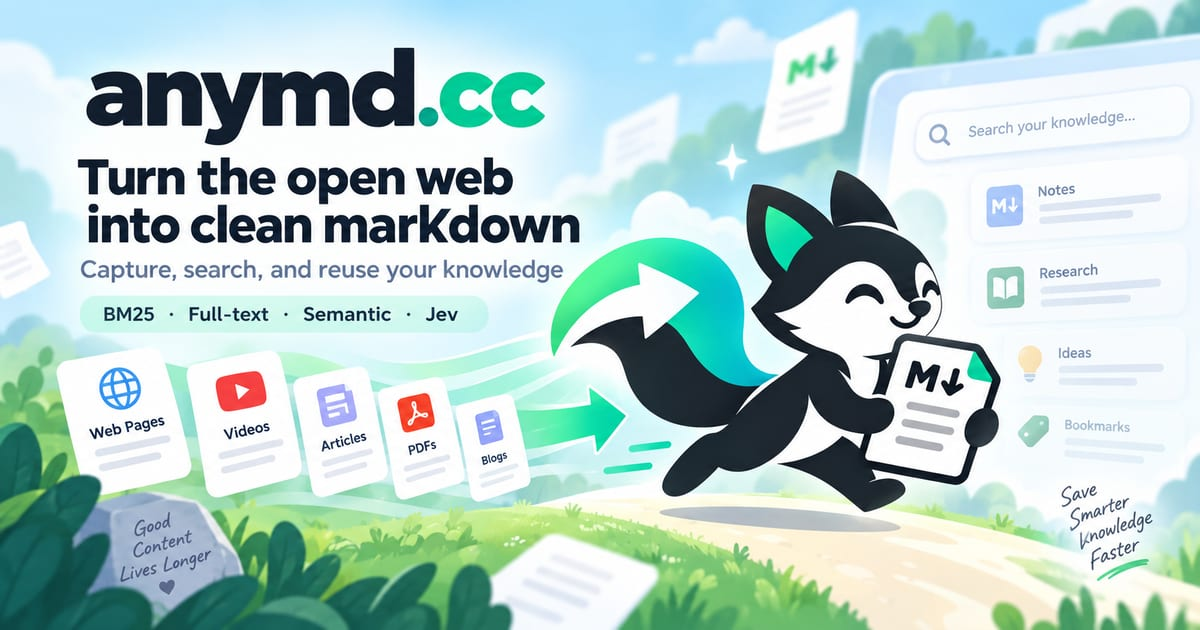
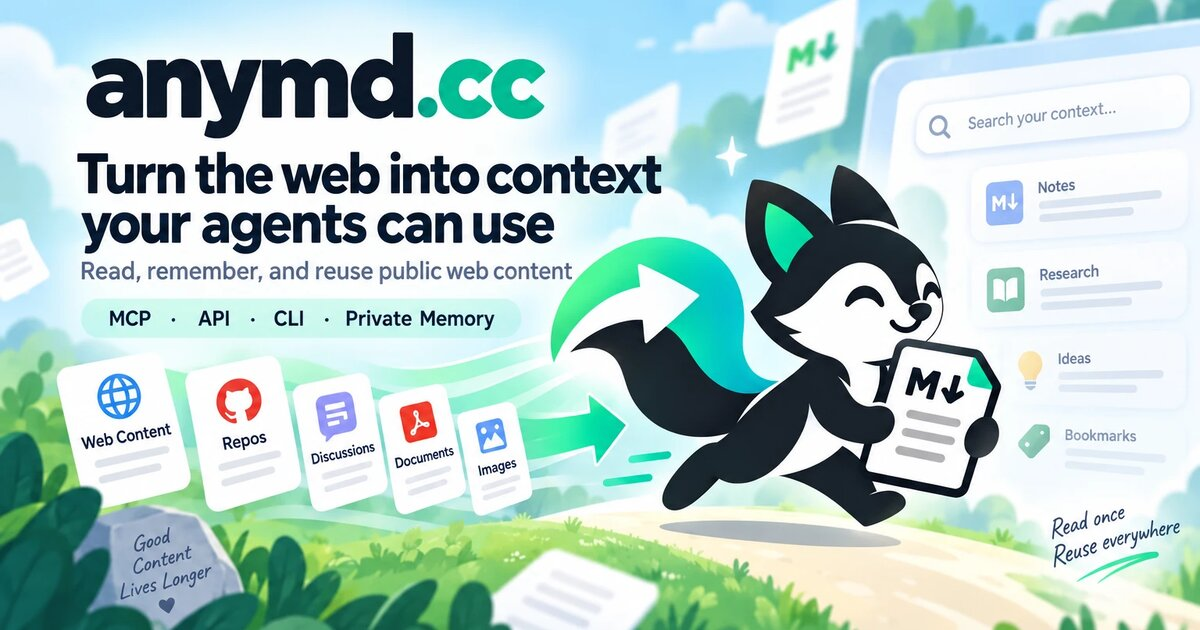
feat(site): new share image and no-training privacy commitment
Replace the social card with the web-context artwork (1200x630, versioned URL so link previews refresh). State in the Privacy Policy that user content is never used to train AI models, and list OpenRouter, which receives search query text for query rewriting.

diff --git a/src/views/layout.tsx b/src/views/layout.tsx
@@ -67,7 +67,7 @@ export function Layout(props: LayoutProps) {
   const { origin, title, path } = props;
   const description = props.description || SITE.description;
   const canonical = origin + path;
-  const image = props.image || `${origin}/og/share.jpg`;
+  const image = props.image || `${origin}/og/share.jpg?v=2`;
   const mdPath = props.markdownPath === null ? null : props.markdownPath || markdownPathFor(path);
   const fullTitle = title.includes('anymd') ? title : `${title} · anymd`;
   const variant = props.variant ?? 'default';

diff --git a/src/routes/public.tsx b/src/routes/public.tsx
@@ -128,7 +128,7 @@ publicRoutes.get('/blog/:slug{[a-z0-9-]+}', async (c) => {
           author: { '@type': 'Person', name: post.authorName, url: 'https://zuey.me' },
           publisher: { '@type': 'Organization', name: SITE.owner, url: SITE.ownerUrl },
           mainEntityOfPage: `${origin}/blog/${post.slug}`,
-          image: post.coverUrl || `${origin}/og/share.jpg`,
+          image: post.coverUrl || `${origin}/og/share.jpg?v=2`,
           keywords: post.tags.join(', '),
         },
       ],

diff --git a/src/content/legal/privacy.md b/src/content/legal/privacy.md
@@ -12,7 +12,7 @@ anymd.cc (the "Service") is operated by [Digitop.ai](https://digitop.ai) ("we", 
 
 - Use anymd.cc without an account and we cache the result briefly (up to 1 hour). It does not go into any library.
 - Sign in and every conversion is saved to **your** library so you can search it later. You can export it or delete it any time.
-- We do not sell your data.
+- We do not sell your data, and we do not use your library, conversions or searches to train AI models.
 - We share data only with the processors listed below, and only what they need.
 
 ## What we collect
@@ -59,7 +59,8 @@ We use a small set of processors. Each receives only what it needs for its job.
 - **FxTwitter** — receives the post identifier when you convert an X/Twitter URL.
 - **YouTube oEmbed, RapidAPI transcript providers and VidCap** — receive the video URL or identifier when you convert a YouTube link.
 - **Hacker News API** — receives the item identifier when you convert a Hacker News thread.
-- **TypeSafe** — only if you turn on the Jev decider for search. It receives a sanitized version of your search query and the titles of the candidate results. It never receives document bodies.
+- **OpenRouter** — routes two small AI calls for search. It receives the text of your search query (up to 300 characters) to suggest alternative phrasings, and, if you turn on the Jev decider, the same data TypeSafe receives below. It never receives document bodies.
+- **TypeSafe** — only if you turn on the Jev decider for search. It receives a sanitized version of your search query and the titles of the candidate results, directly or through OpenRouter. It never receives document bodies.
 
 When you convert an ordinary web page, we fetch it from the site that hosts it. That site will see a request from our infrastructure, not from you.
 
@@ -100,7 +101,9 @@ The Service is not directed at children under 16, and we do not knowingly collec
 
 ## AI and your content
 
-AI features (document and image conversion, embeddings, and query fan-out) run on Cloudflare Workers AI, on Cloudflare's infrastructure, to perform the conversion or search you asked for. The only other AI service involved is TypeSafe, and only when you enable the Jev decider, as described above.
+**We do not train AI models on your content.** Your library, your conversions, your search queries and your usage history are never used by us to train, fine-tune or evaluate AI models, and we do not sell or license them to anyone for that purpose.
+
+AI features run only to perform the conversion or search you asked for. Document and image conversion and embeddings run on Cloudflare Workers AI, on Cloudflare's infrastructure. Search query rewriting runs through OpenRouter when it is configured, with Workers AI as the fallback, and receives only your query text. The Jev decider uses TypeSafe, only when you enable it. Only Cloudflare Workers AI processes document content. The other services receive search text and result titles, never document bodies.
 
 ## Changes to this policy
 
